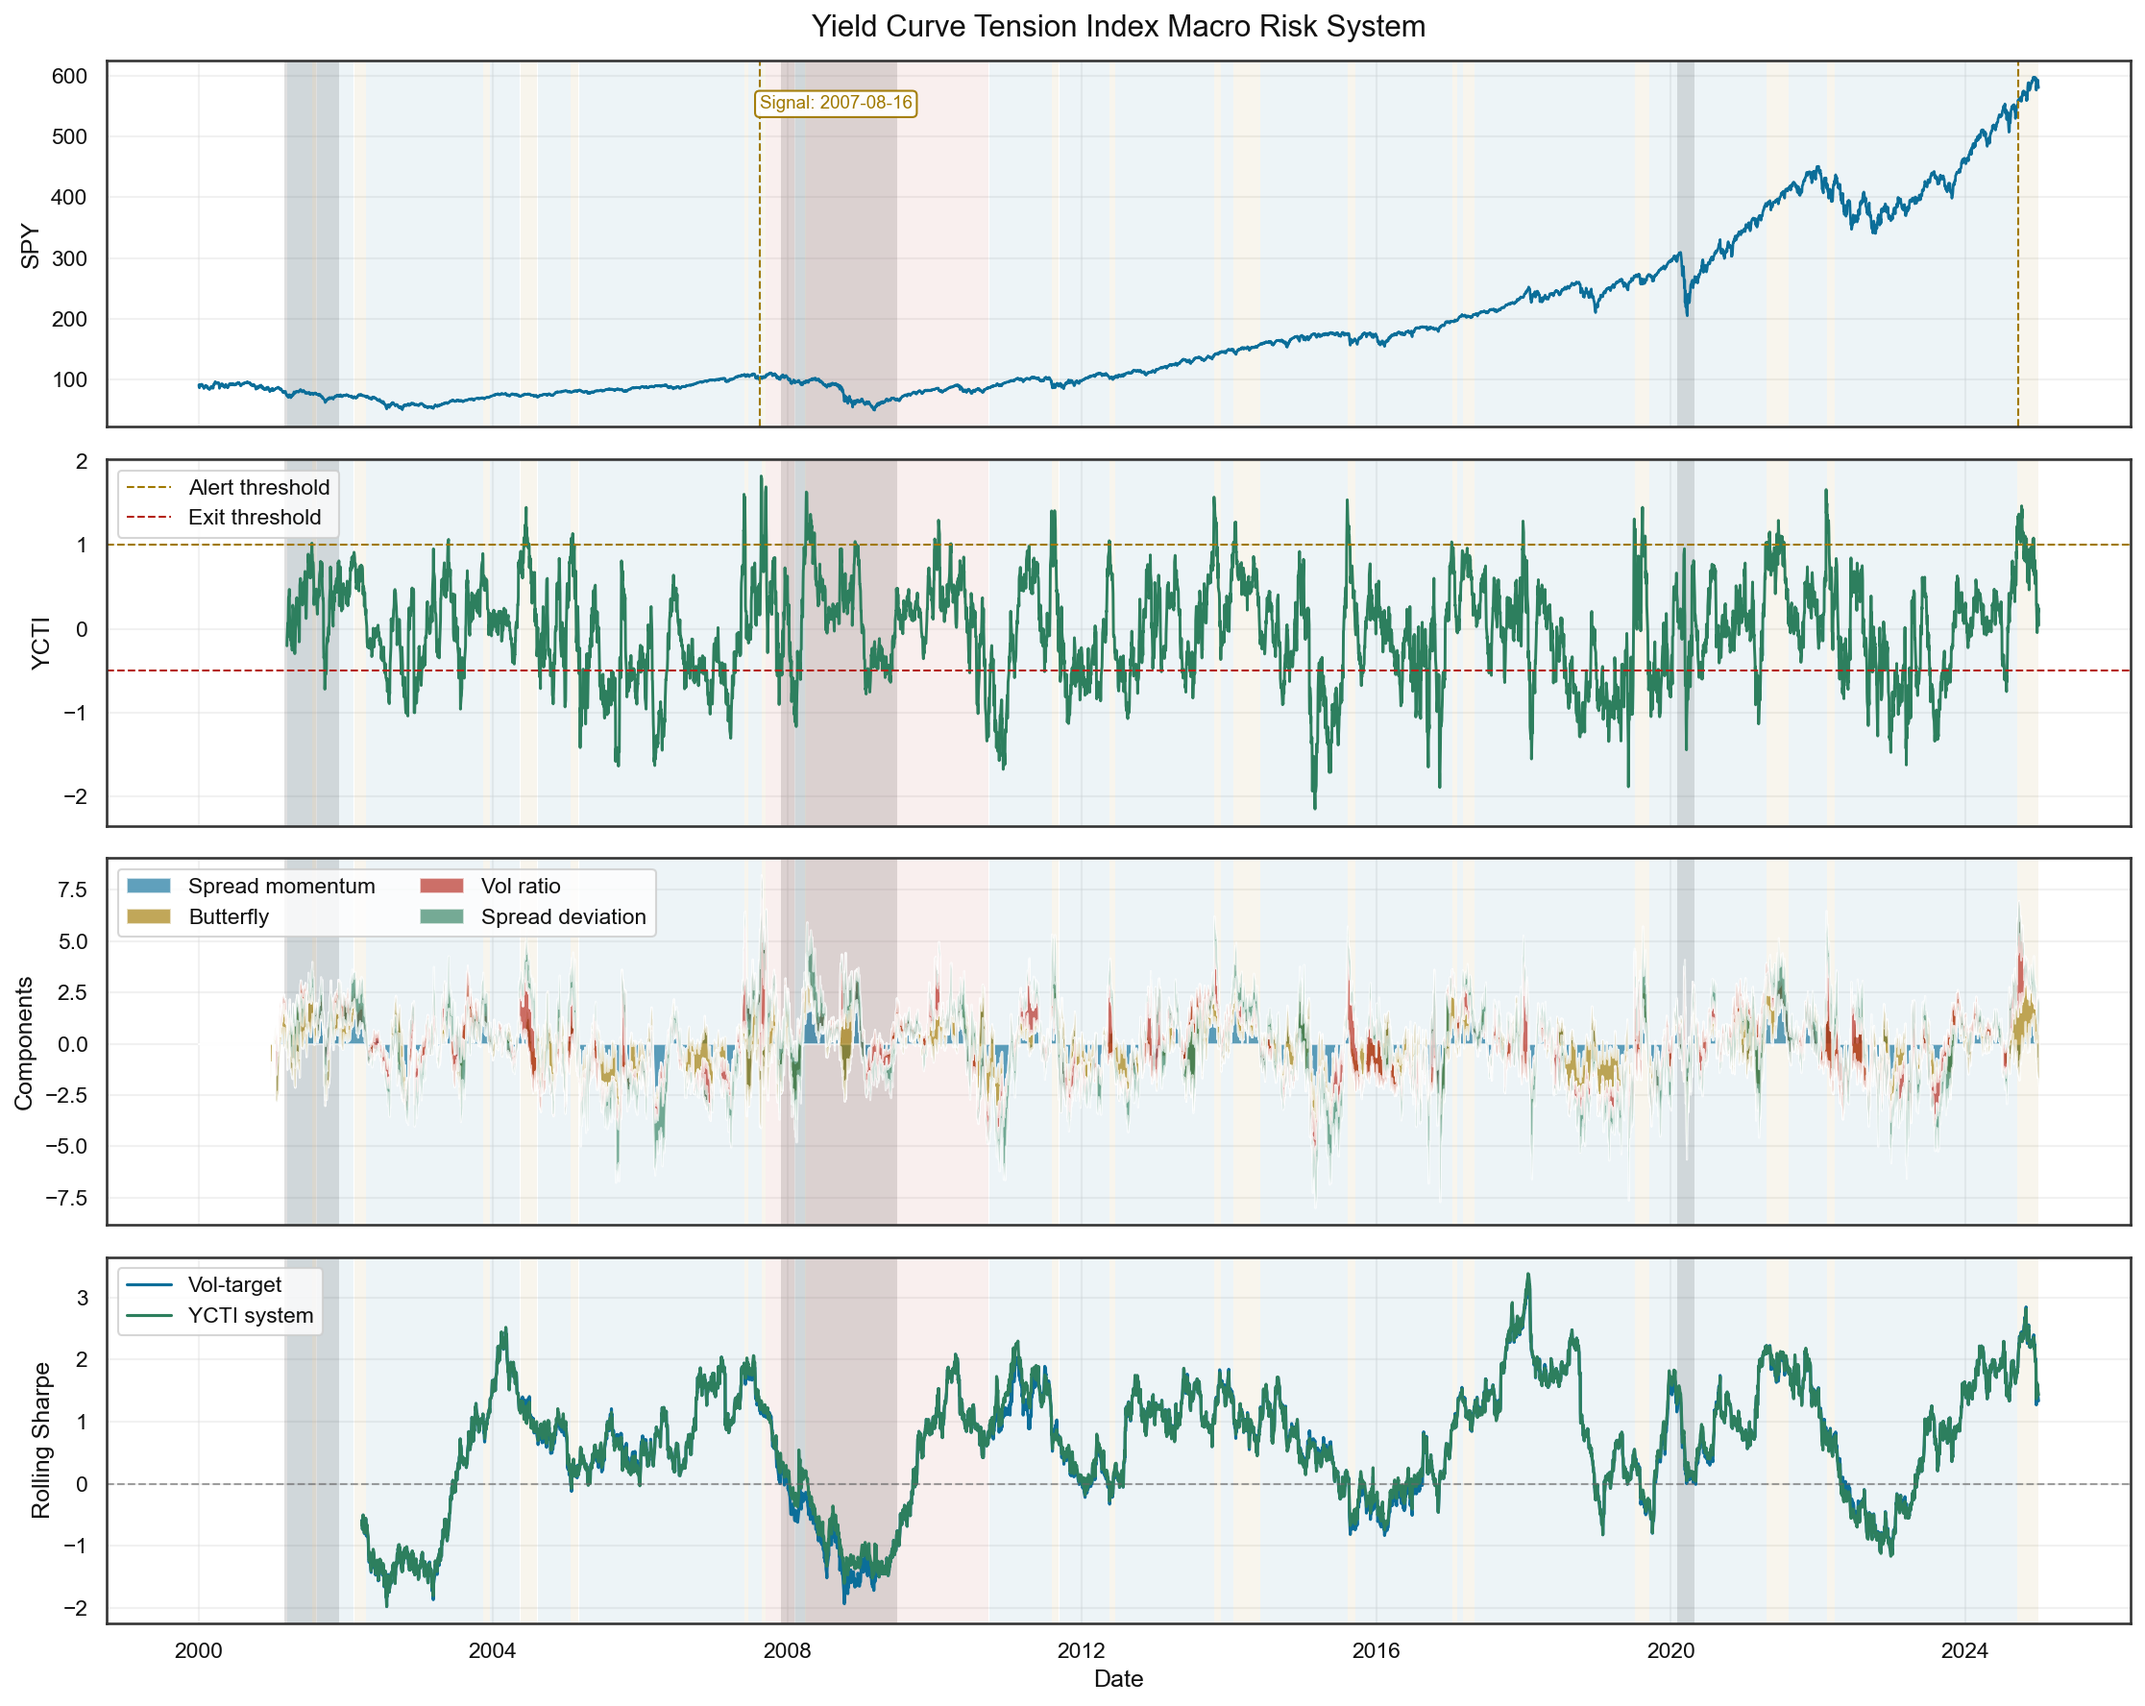
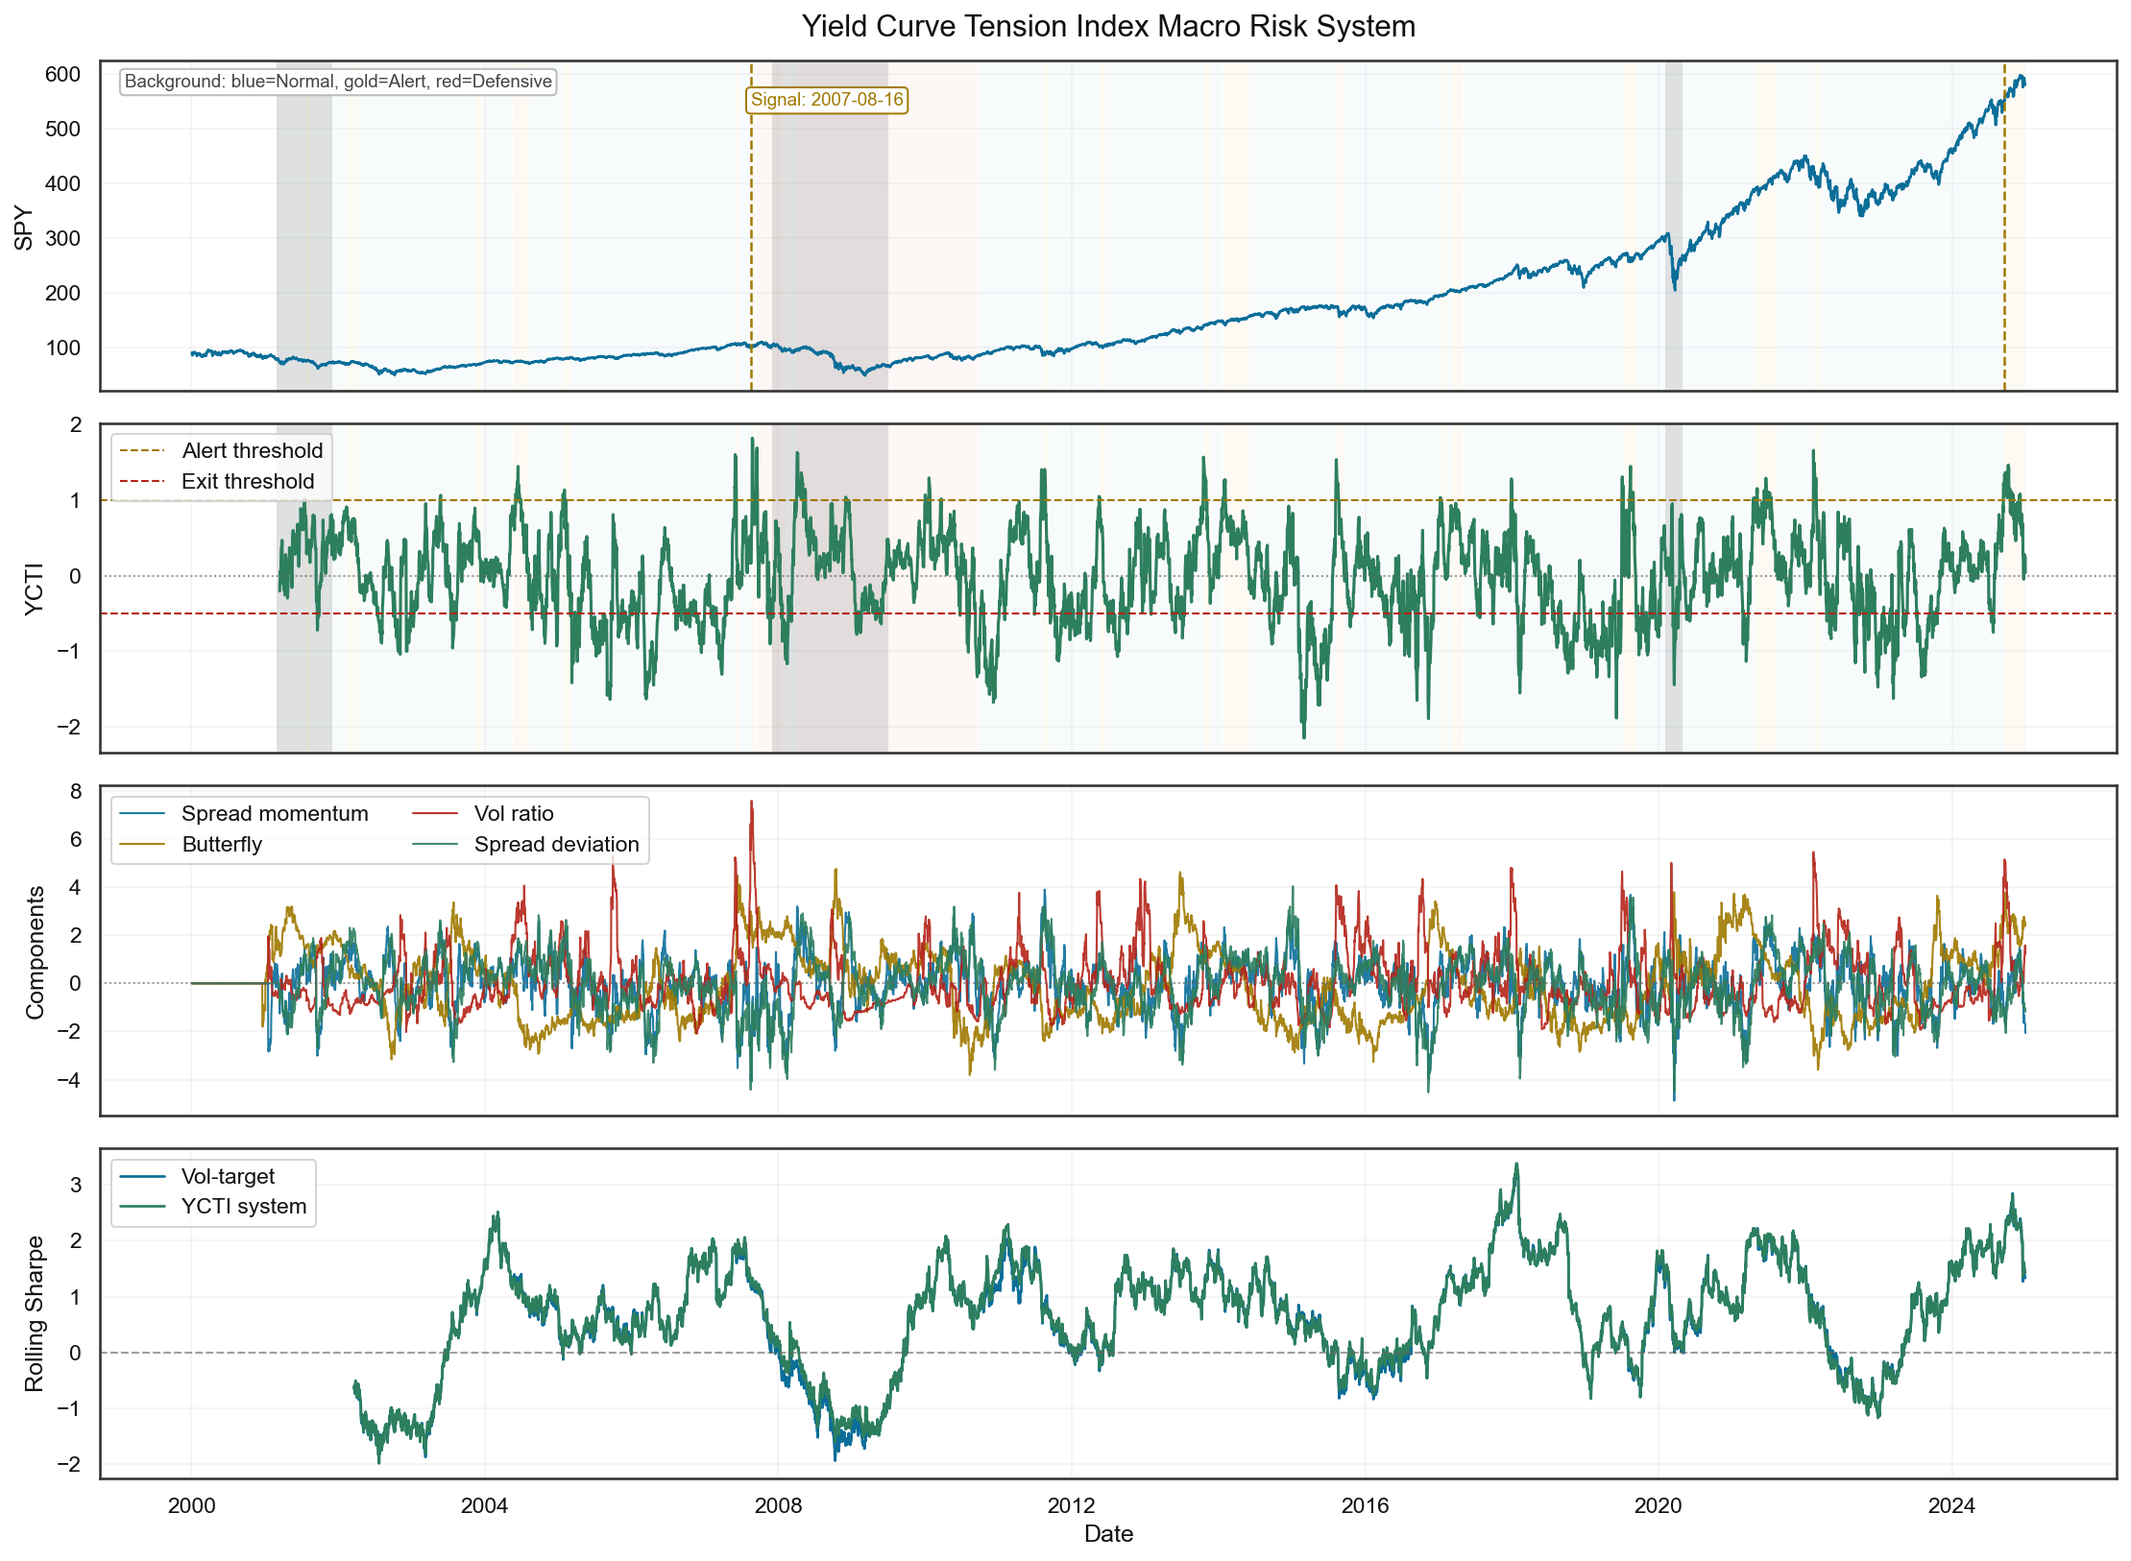
refine YCTI figure layout and readability

diff --git a/viz.py b/viz.py
@@ -507,15 +507,18 @@ def plot_ycti_signal(ycti_df, features_df, spy_df, signals_df, recession_bands=N
     if "ycti_state" not in df.columns:
         df["ycti_state"] = "Normal"
 
-    fig, axes = plt.subplots(4, 1, figsize=(15, 12), sharex=True)
-    state_colors = {"Normal": COLORS[0], "Alert": COLORS[1], "Defensive": COLORS[2]}
+    fig, axes = plt.subplots(4, 1, figsize=(15, 11), sharex=True)
+    state_colors = {"Normal": "#DCEAF3", "Alert": "#F7E8BF", "Defensive": "#F4D3CF"}
+    groups = df["ycti_state"].ne(df["ycti_state"].shift()).cumsum()
 
     for ax in axes:
+        ax.grid(alpha=0.25)
+
+    for ax in axes[:2]:
         _add_recession_bands(ax, bands)
-        groups = df["ycti_state"].ne(df["ycti_state"].shift()).cumsum()
         for _, period in df.groupby(groups):
             state = period["ycti_state"].iloc[0]
-            ax.axvspan(period.index[0], period.index[-1], color=state_colors[state], alpha=0.07, linewidth=0)
+            ax.axvspan(period.index[0], period.index[-1], color=state_colors[state], alpha=0.18, linewidth=0)
 
     axes[0].plot(spy_df.index, spy_df["close"], color=COLORS[0], linewidth=1.3)
     axes[0].set_ylabel("SPY")
@@ -529,7 +532,7 @@ def plot_ycti_signal(ycti_df, features_df, spy_df, signals_df, recession_bands=N
 
     if len(signal_dates) > 0:
         for date in signal_dates:
-            axes[0].axvline(date, color=COLORS[1], linestyle="--", linewidth=1)
+            axes[0].axvline(date, color=COLORS[1], linestyle="--", linewidth=1.2)
         first_signal = signal_dates[0]
         axes[0].text(
             first_signal,
@@ -541,30 +544,49 @@ def plot_ycti_signal(ycti_df, features_df, spy_df, signals_df, recession_bands=N
             va="top",
             bbox={"facecolor": "white", "edgecolor": COLORS[1], "alpha": 0.95, "boxstyle": "round,pad=0.25"},
         )
+    axes[0].text(
+        0.012,
+        0.92,
+        "Background: blue=Normal, gold=Alert, red=Defensive",
+        transform=axes[0].transAxes,
+        fontsize=9,
+        color="#444444",
+        bbox={"facecolor": "white", "edgecolor": "#BBBBBB", "alpha": 0.95, "boxstyle": "round,pad=0.25"},
+    )
 
-    axes[1].plot(ycti_df.index, ycti_df["ycti"], color=COLORS[3], linewidth=1.4)
+    axes[1].plot(ycti_df.index, ycti_df["ycti"], color=COLORS[3], linewidth=1.5)
     axes[1].axhline(1.0, color=COLORS[1], linestyle="--", linewidth=1, label="Alert threshold")
     axes[1].axhline(-0.5, color=COLORS[2], linestyle="--", linewidth=1, label="Exit threshold")
+    axes[1].axhline(0, color="#666666", linestyle=":", linewidth=0.9, alpha=0.7)
     axes[1].set_ylabel("YCTI")
     axes[1].legend(loc="upper left")
 
     component_cols = ["spread_momentum_z", "butterfly_z", "vol_ratio_z", "spread_deviation_z"]
     components = ycti_df[component_cols].fillna(0)
-    axes[2].stackplot(
-        components.index,
-        [components[col] for col in component_cols],
-        labels=["Spread momentum", "Butterfly", "Vol ratio", "Spread deviation"],
-        colors=COLORS[:4],
-        alpha=0.65,
-    )
+    component_labels = {
+        "spread_momentum_z": "Spread momentum",
+        "butterfly_z": "Butterfly",
+        "vol_ratio_z": "Vol ratio",
+        "spread_deviation_z": "Spread deviation",
+    }
+    for col, color in zip(component_cols, COLORS[:4]):
+        axes[2].plot(
+            components.index,
+            components[col],
+            label=component_labels[col],
+            color=color,
+            linewidth=1.0,
+            alpha=0.9,
+        )
+    axes[2].axhline(0, color="#666666", linestyle=":", linewidth=0.9, alpha=0.7)
     axes[2].set_ylabel("Components")
     axes[2].legend(loc="upper left", ncol=2)
 
     if {"ret_base", "ret_ycti"}.issubset(df.columns):
         base_sharpe = df["ret_base"].rolling(252).mean() / df["ret_base"].rolling(252).std() * np.sqrt(252)
         ycti_sharpe = df["ret_ycti"].rolling(252).mean() / df["ret_ycti"].rolling(252).std() * np.sqrt(252)
-        axes[3].plot(base_sharpe.index, base_sharpe, color=COLORS[0], label="Vol-target")
-        axes[3].plot(ycti_sharpe.index, ycti_sharpe, color=COLORS[3], label="YCTI system")
+        axes[3].plot(base_sharpe.index, base_sharpe, color=COLORS[0], linewidth=1.3, label="Vol-target")
+        axes[3].plot(ycti_sharpe.index, ycti_sharpe, color=COLORS[3], linewidth=1.3, label="YCTI system")
         axes[3].legend(loc="upper left")
     axes[3].axhline(0, color="#666666", linestyle="--", linewidth=1, alpha=0.6)
     axes[3].set_ylabel("Rolling Sharpe")
